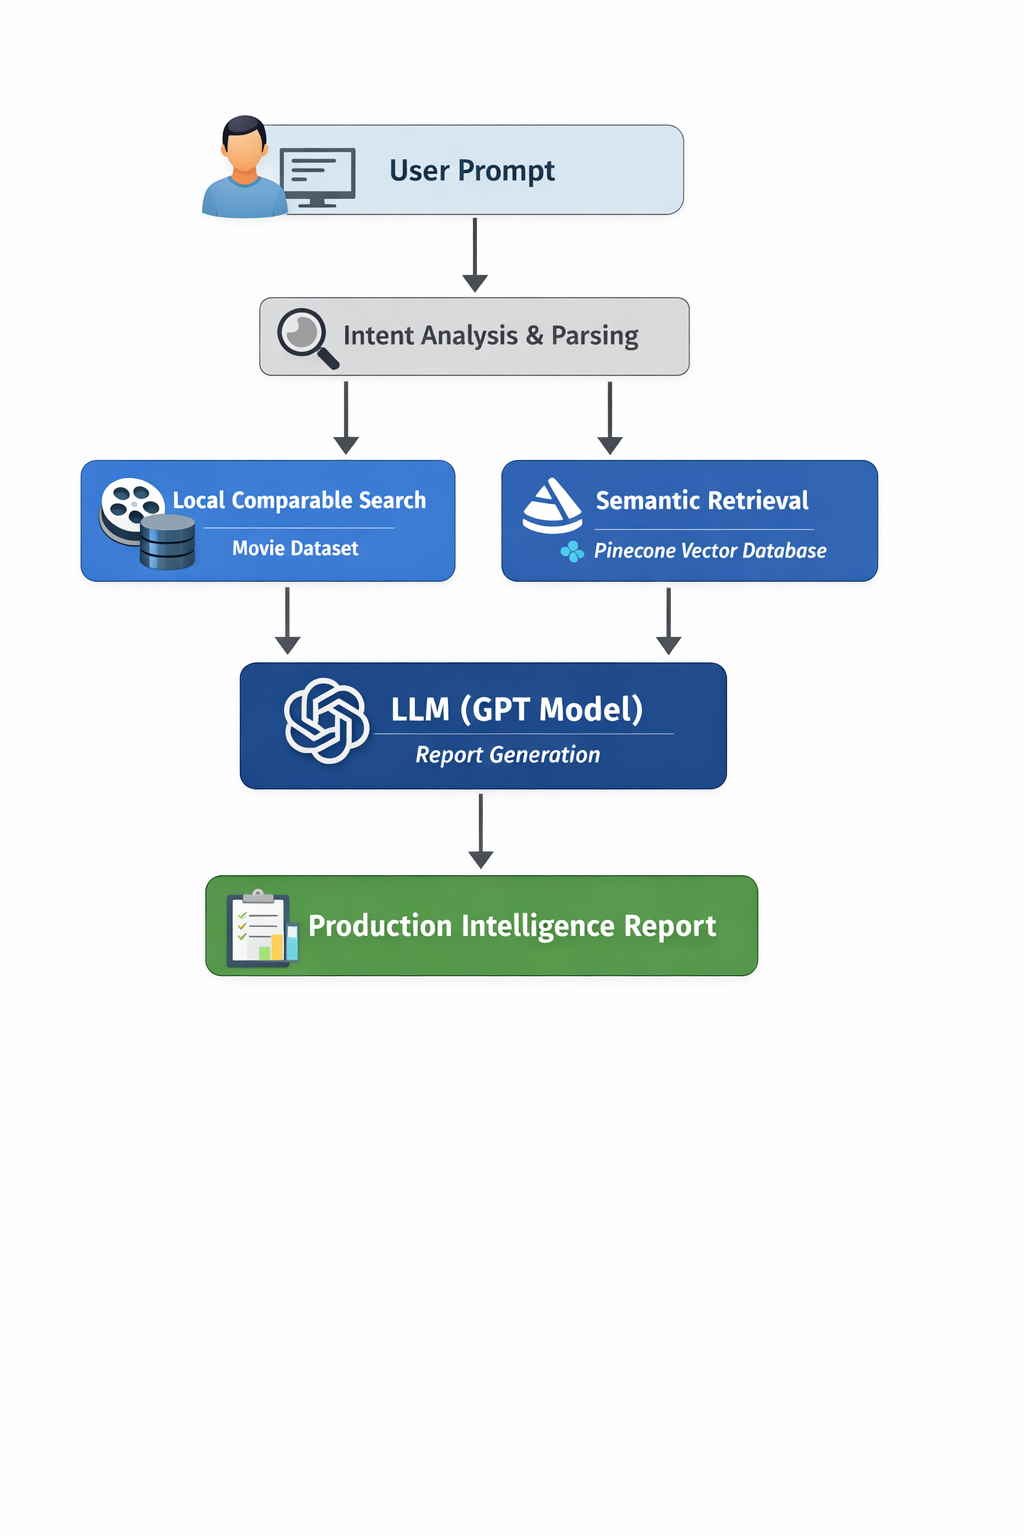
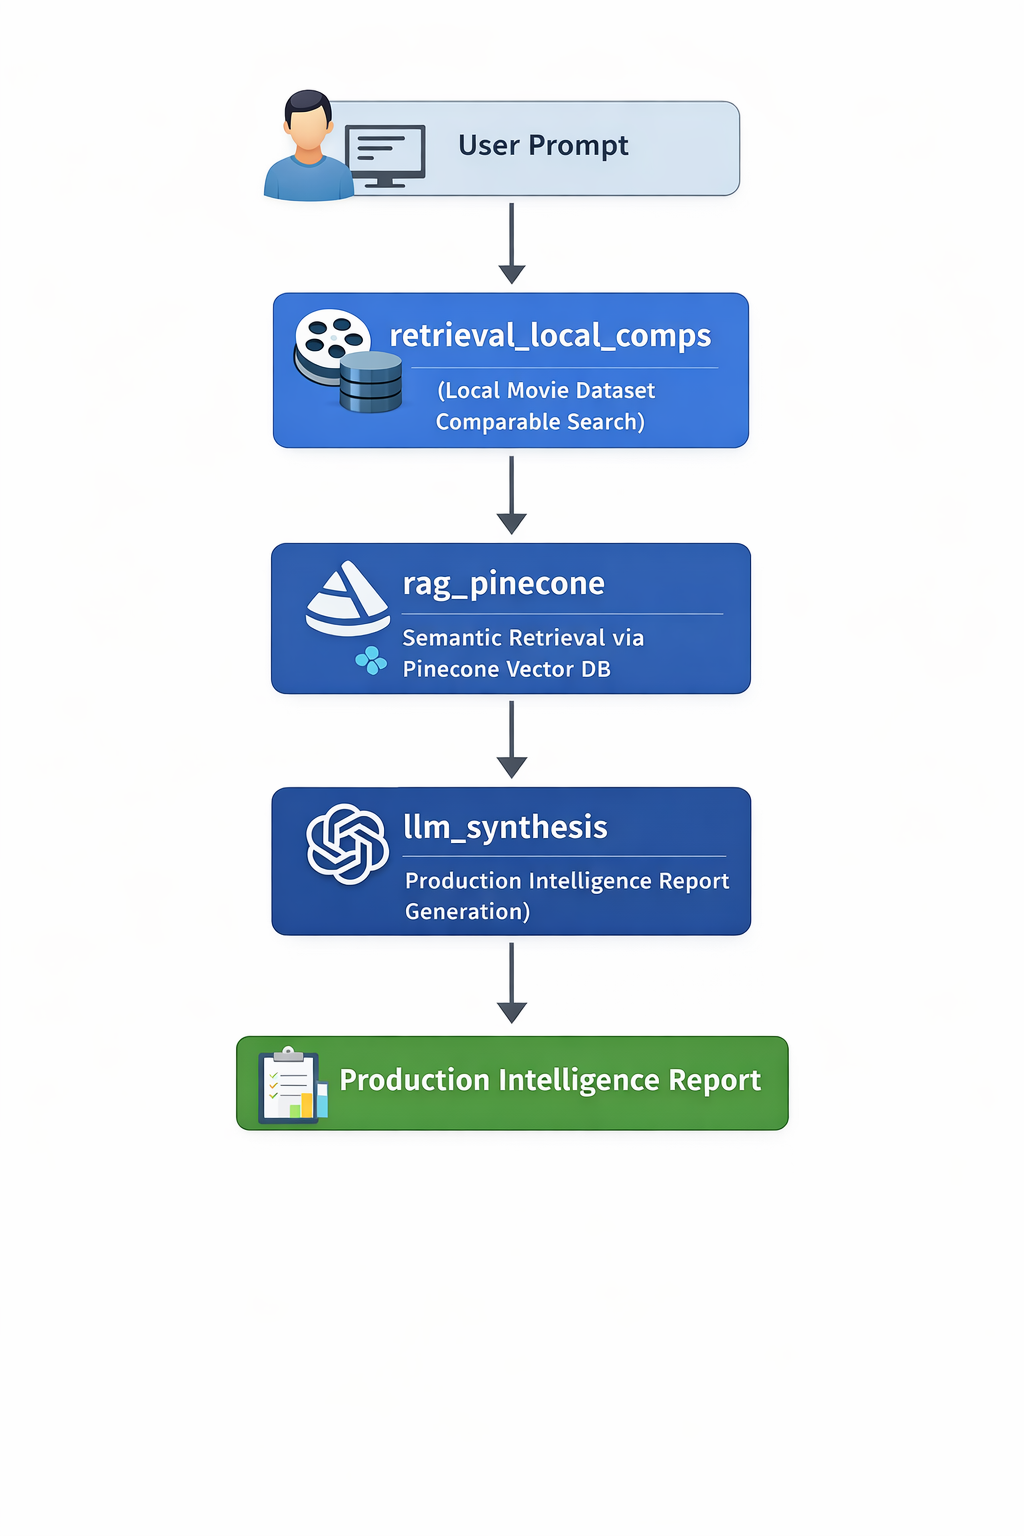
4

Changed region(s): [[0.0625, 0.0312, 0.875, 0.75]]

diff --git a/README.md b/README.md
@@ -34,26 +34,24 @@ Production intelligence is missing.
 - Comparable Films Analysis  
 - Budget Feasibility Validation  
 - ROI Benchmark Estimation  
-- Talent Alignment Suggestions  
 - Structured Production Report  
 
 ---
 
 ## 🧠 Agent Architecture  
 
-The system follows a four-stage reasoning pipeline:
+The system follows a three-stage execution pipeline:
 
-1. **Intelligent Intent**  
-   LLM extracts production signals such as genre, themes, narrative scope, and budget tier.
+1. **retrieval_local_comps**  
+   Retrieves local comparable film statistics and summarizes available ROI coverage.
 
-2. **Semantic Retrieval (RAG)**  
-   Pinecone vector search retrieves historically similar films and genre-aligned comparables.
+2. **rag_pinecone**  
+   Uses Pinecone vector search to retrieve semantically similar comparable films based on story mechanics, genre, tone, and budget cues.
 
-3. **Predictive Core**  
-   Deterministic financial analytics validate budget feasibility and estimate ROI benchmarks.
+3. **llm_synthesis**  
+   Generates a concise production-style report using retrieved comparable films and historical ROI benchmarks.
 
-4. **Dynamic Synthesis**  
-   LLM generates a concise structured production intelligence report.
+These module names are identical to the execution trace returned by the API.
 
 ---
 
@@ -61,7 +59,13 @@ The system follows a four-stage reasoning pipeline:
 
 Primary dataset: **The Movies Dataset (Kaggle)**  
 
-Includes metadata, cast & crew, genres, keywords, budget, revenue, ratings, and popularity signals.
+Includes:
+
+- metadata  
+- cast & crew  
+- genres and keywords  
+- budget and revenue  
+- ratings and popularity signals  
 
 ---
 
@@ -77,7 +81,7 @@ Includes metadata, cast & crew, genres, keywords, budget, revenue, ratings, and 
 ## 🔌 API Endpoints  
 
 - `GET /api/team_info` — returns team metadata  
-- `GET /api/agent_info` — returns agent description and usage  
+- `GET /api/agent_info` — returns agent description, purpose, prompt template, and example execution  
 - `GET /api/model_architecture` — returns architecture diagram (PNG)  
 - `POST /api/execute` — main agent execution endpoint  
 
@@ -85,10 +89,13 @@ Includes metadata, cast & crew, genres, keywords, budget, revenue, ratings, and 
 
 ## ⚙ Running Locally  
 
-To run the project locally, configure the required environment variables for external services (database, vector search, and LLM provider), then install dependencies:
-- pip install -r requirements.txt
+To run the project locally, configure the required environment variables for external services, then install dependencies:
+
+```bash
+pip install -r requirements.txt
+
 Run the backend:
-- uvicorn backend.app.main:app --reload
+uvicorn backend.app.main:app --reload
 
 
 ---
